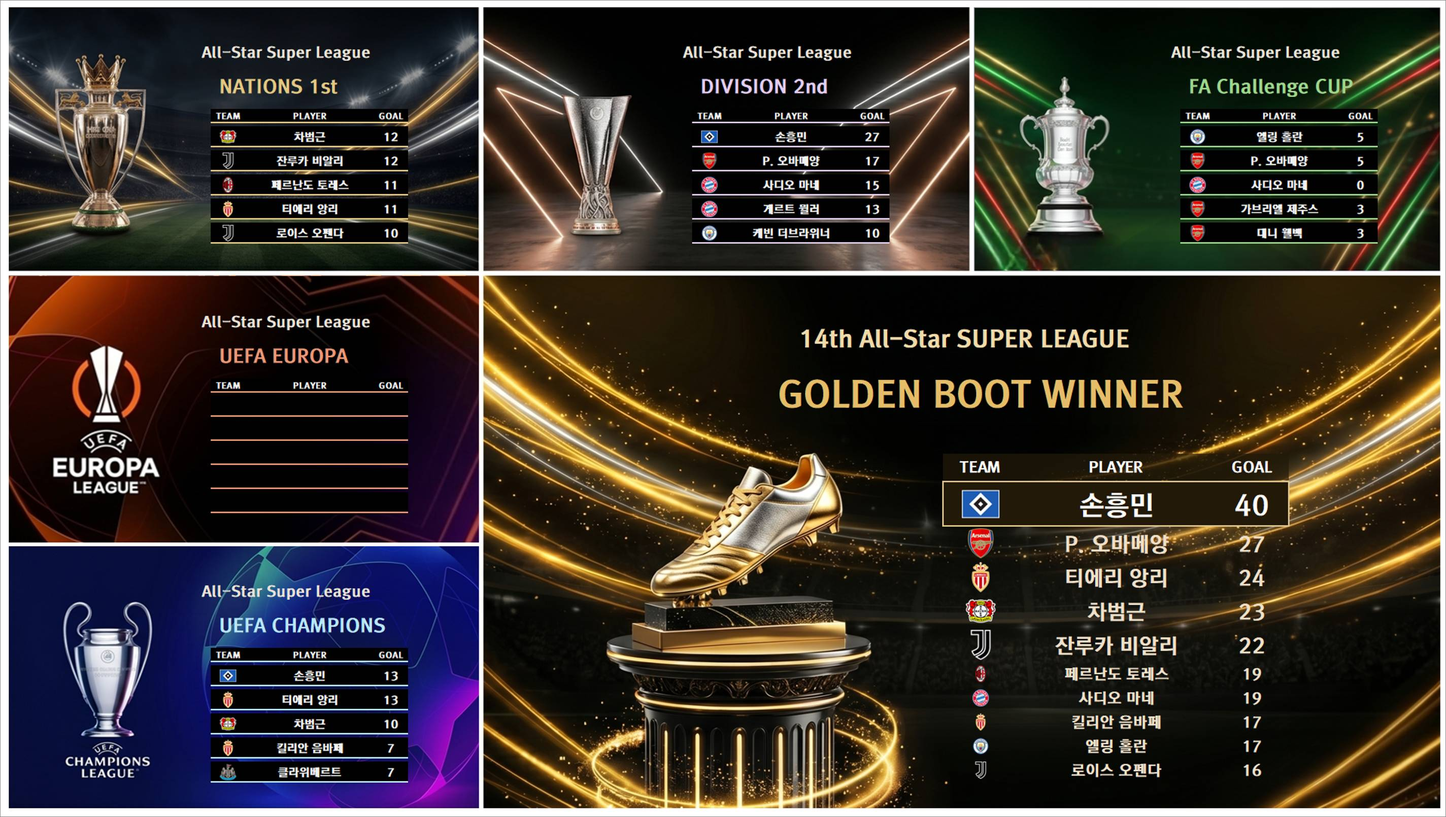
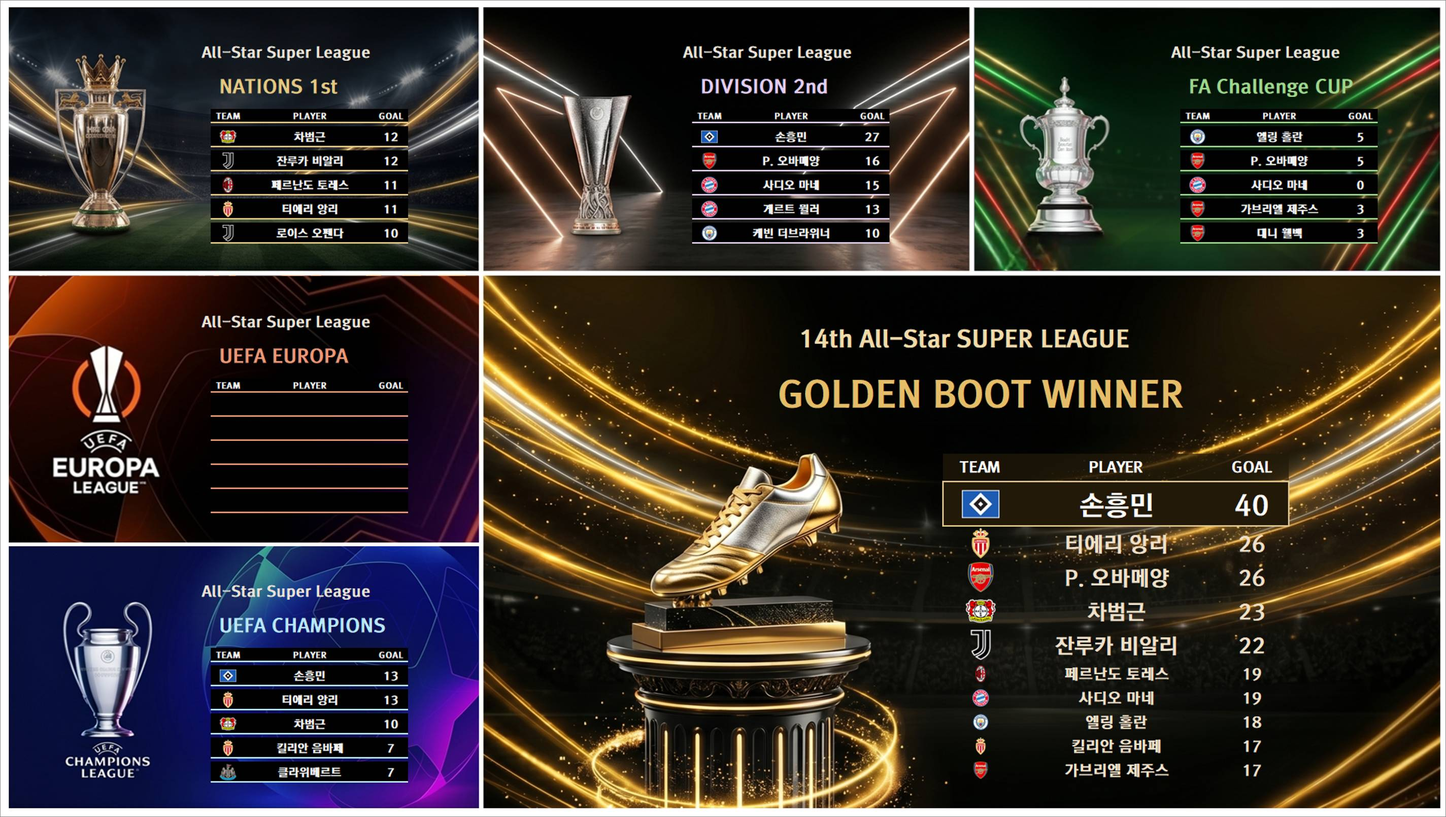
Optimize: 01:57:49

diff --git a/index.html b/index.html
@@ -67,13 +67,13 @@
     </div>
     
     <div class="container">
-        <div class="card"><h2>👑 GOLDEN BOOT</h2><img src="https://i.ibb.co/ZzkzfgwJ/c679213d5f23.jpg" alt="득점왕"></div>
+        <div class="card"><h2>👑 GOLDEN BOOT</h2><img src="https://i.ibb.co/vvBcn5r1/988ebd5ca2c4.jpg" alt="득점왕"></div>
         <div class="card"><h2>🥇 1부리그</h2><img src="https://i.ibb.co/v6Qvpq3Q/0cd08906a137.jpg" alt="1부 리그"></div>
-        <div class="card"><h2>🥈 2부리그</h2><img src="https://i.ibb.co/p66Qpskv/bc4823a4f080.jpg" alt="2부 리그"></div>
-        <div class="card"><h2>🏅 FA컵 토너먼트</h2><img src="https://i.ibb.co/c9KDVyL/d3a8e0972e9a.jpg" alt="FA컵"></div>
+        <div class="card"><h2>🥈 2부리그</h2><img src="https://i.ibb.co/k27rxTnD/2ebdd4c2ce99.jpg" alt="2부 리그"></div>
+        <div class="card"><h2>🏅 FA컵 토너먼트</h2><img src="https://i.ibb.co/n8tphpqv/36c9369582f4.jpg" alt="FA컵"></div>
         <div class="card"><h2>🌟 UCL 그룹스테이지</h2><img src="https://i.ibb.co/twk6B13t/517d405c6cc6.jpg" alt="UCL 조별"></div>
-        <div class="card"><h2>🏆 UCL 토너먼트</h2><img src="https://i.ibb.co/G4YP45k9/4ddce6382cb3.jpg" alt="UCL 토너"></div>
-        <div class="card"><h2>🎖 UEL 토너먼트</h2><img src="https://i.ibb.co/V0WfRyDw/f216bcdb7fe9.jpg" alt="UEL 토너"></div>
+        <div class="card"><h2>🏆 UCL 토너먼트</h2><img src="https://i.ibb.co/Z6RNBpNC/963ff6ed6309.jpg" alt="UCL 토너"></div>
+        <div class="card"><h2>🎖 UEL 토너먼트</h2><img src="https://i.ibb.co/n8cQNnV0/1318ee593559.jpg" alt="UEL 토너"></div>
     </div>
     
     <footer>
